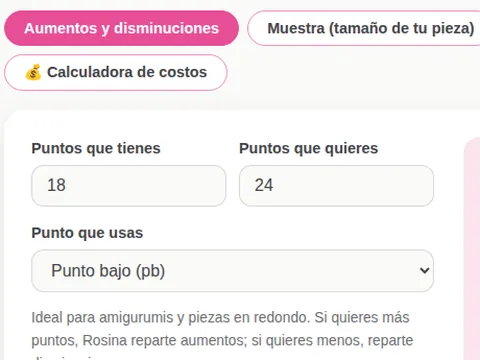
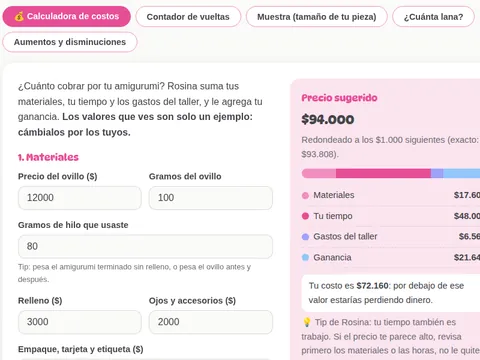
Rincón: Rosina te regala; calculadora en orden costos, vueltas, muestra, lana, aumentos
Claude-Session: https://claude.ai/code/session_01U9SAsfVct6L94yoocG63si

diff --git a/recursos-rosina.html b/recursos-rosina.html
@@ -523,7 +523,7 @@ height="0" width="0" style="display:none;visibility:hidden"></iframe></noscript>
         <h2><span aria-hidden="true">🧮</span> Herramientas para tejedoras</h2>
         <p>Para planear, calcular y organizar tus proyectos.</p>
         <nav class="enlaces-grupo" aria-label="Herramientas para tejedoras">
-          <a href="#calculadora"><span class="icono" aria-hidden="true">🧮</span><span><strong>Calculadoras</strong><span>Aumentos, muestra, lana y costos</span></span></a>
+          <a href="#calculadora"><span class="icono" aria-hidden="true">🧮</span><span><strong>Calculadoras</strong><span>Costos, vueltas, muestra y lana</span></span></a>
           <a href="#agenda"><span class="icono" aria-hidden="true">🗓</span><span><strong>Agenda</strong><span>Proyectos, semana y pedidos</span></span></a>
           <a href="paletas-rosina.html"><span class="icono" aria-hidden="true">🎨</span><span><strong>Paletas de colores</strong><span>22 combinaciones y la tuya</span></span></a>
         </nav>
@@ -535,10 +535,10 @@ height="0" width="0" style="display:none;visibility:hidden"></iframe></noscript>
           <a href="revista.html#pausas-activas"><span class="icono" aria-hidden="true">🧘</span><span><strong>Pausas activas</strong><span>Estiramientos para tejedoras</span></span></a>
         </nav>
       </section>
-      <section class="grupo-rincon" aria-label="Recursos gratuitos">
-        <h2><span aria-hidden="true">🎁</span> Recursos gratuitos</h2>
+      <section class="grupo-rincon" aria-label="Rosina te regala">
+        <h2><span aria-hidden="true">🎁</span> Rosina te regala</h2>
         <p>Descargables para llevar a Rosina contigo.</p>
-        <nav class="enlaces-grupo" aria-label="Recursos gratuitos">
+        <nav class="enlaces-grupo" aria-label="Rosina te regala">
           <a href="#stickers"><span class="icono" aria-hidden="true">🌸</span><span><strong>Stickers</strong><span>26 para WhatsApp</span></span></a>
           <a href="#fondos"><span class="icono" aria-hidden="true">📱</span><span><strong>Fondos de pantalla</strong><span>9 diseños, 4 tamaños</span></span></a>
         </nav>
@@ -815,18 +815,18 @@ height="0" width="0" style="display:none;visibility:hidden"></iframe></noscript>
         <img class="miniatura-recurso" src="img/rincon/calculadora.webp" width="480" height="360" loading="lazy" alt="Vista de la calculadora de aumentos y disminuciones">
       <div>
         <h2>Calculadora de Rosina</h2>
-        <p>Rosina hace las cuentas por ti: reparte aumentos y disminuciones, adapta un patrón a tu muestra, estima cuánta lana necesitas, lleva la cuenta de tus vueltas y calcula los costos de tu tejido.</p>
+        <p>Rosina hace las cuentas por ti: calcula los costos de tu tejido, lleva la cuenta de tus vueltas, adapta un patrón a tu muestra, estima cuánta lana necesitas y reparte aumentos y disminuciones.</p>
       </div>
     </div>
     <div class="pestanas" role="tablist" aria-label="Herramientas de la calculadora">
-      <button type="button" role="tab" id="tab-aumentos" aria-controls="calc-aumentos" aria-selected="true">Aumentos y disminuciones</button>
+      <button type="button" role="tab" id="tab-precio" aria-controls="calc-precio" aria-selected="true">💰 Calculadora de costos</button>
+      <button type="button" role="tab" id="tab-contador" aria-controls="calc-contador" aria-selected="false">Contador de vueltas</button>
       <button type="button" role="tab" id="tab-muestra" aria-controls="calc-muestra" aria-selected="false">Muestra (tamaño de tu pieza)</button>
       <button type="button" role="tab" id="tab-lana" aria-controls="calc-lana" aria-selected="false">¿Cuánta lana?</button>
-      <button type="button" role="tab" id="tab-contador" aria-controls="calc-contador" aria-selected="false">Contador de vueltas</button>
-      <button type="button" role="tab" id="tab-precio" aria-controls="calc-precio" aria-selected="false">💰 Calculadora de costos</button>
+      <button type="button" role="tab" id="tab-aumentos" aria-controls="calc-aumentos" aria-selected="false">Aumentos y disminuciones</button>
     </div>
 
-    <div class="panel-calc" role="tabpanel" id="calc-aumentos" aria-labelledby="tab-aumentos">
+    <div class="panel-calc" role="tabpanel" id="calc-aumentos" aria-labelledby="tab-aumentos" hidden>
       <form id="form-aumentos" onsubmit="return false">
         <div class="fila-campos">
           <div class="campo"><label for="aum-actual">Puntos que tienes</label><input type="number" id="aum-actual" min="1" max="999" value="18" inputmode="numeric"></div>
@@ -943,7 +943,7 @@ height="0" width="0" style="display:none;visibility:hidden"></iframe></noscript>
       </div>
     </div>
 
-    <div class="panel-calc panel-precio" role="tabpanel" id="calc-precio" aria-labelledby="tab-precio" hidden>
+    <div class="panel-calc panel-precio" role="tabpanel" id="calc-precio" aria-labelledby="tab-precio">
       <form id="form-precio" onsubmit="return false">
         <p style="margin-top:0;">¿Cuánto cobrar por tu amigurumi? Rosina suma tus materiales, tu tiempo y los gastos del taller, y le agrega tu ganancia. <strong>Los valores que ves son solo un ejemplo: cámbialos por los tuyos.</strong></p>
         <fieldset class="grupo-muestra">
